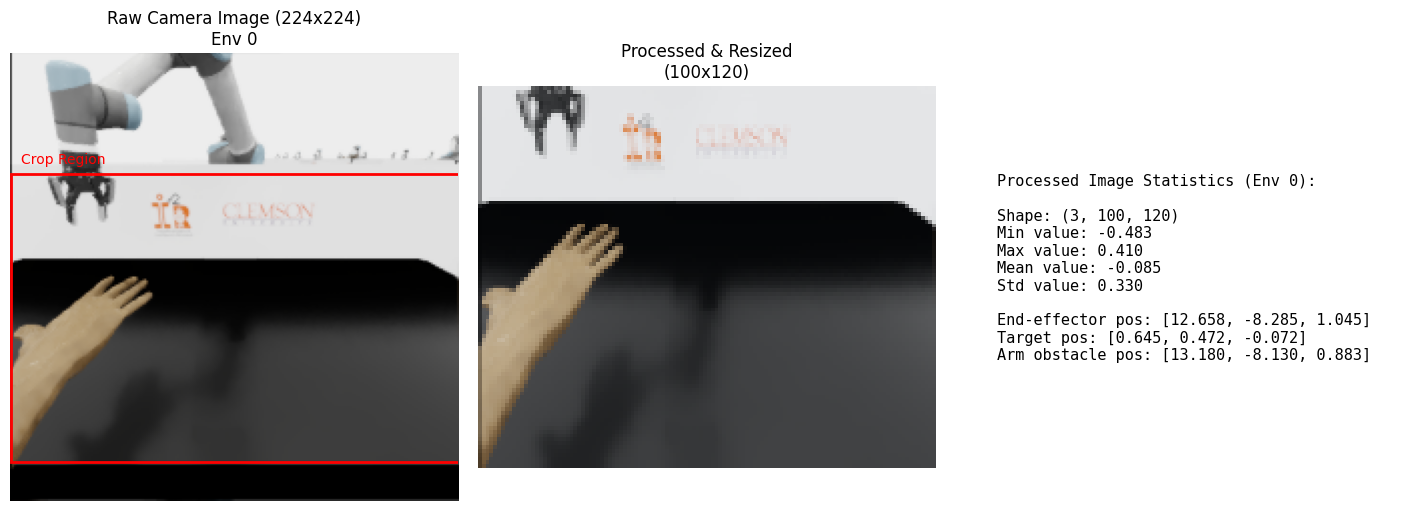
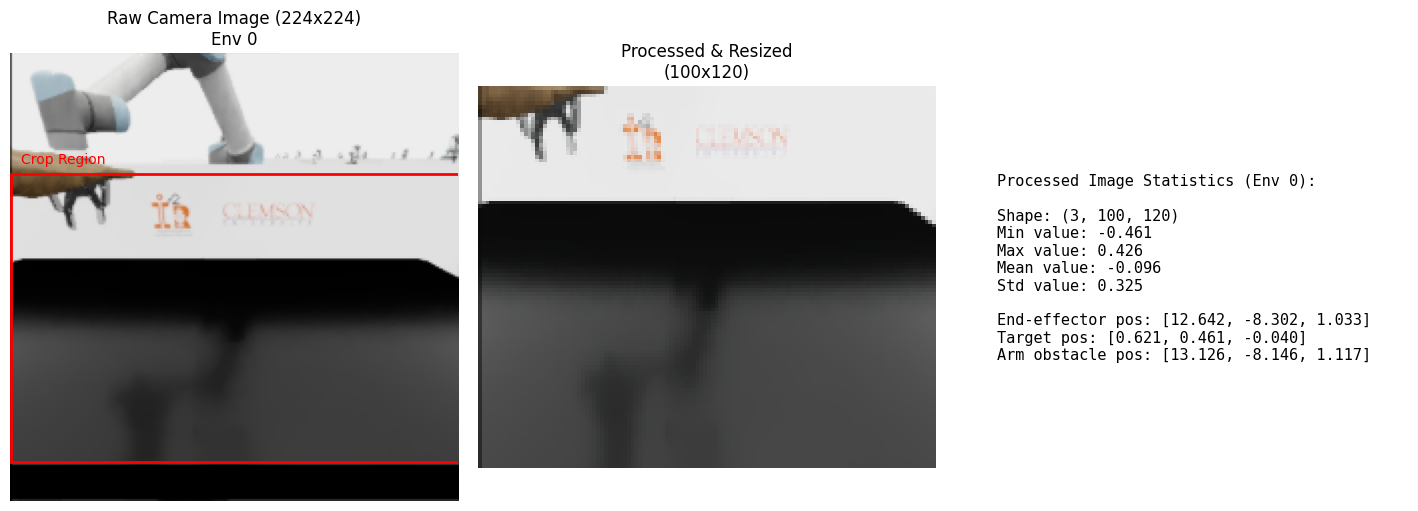
integrated with UR5 env without image processing. Need to add CNN layers to Actor and Critic

diff --git a/ppo/algorithms/ppo/algorithm/ppo_policy.py b/ppo/algorithms/ppo/algorithm/ppo_policy.py
@@ -26,6 +26,7 @@ class PPO_Policy:
         self.weight_decay = args.weight_decay
         self._use_policy_active_masks = args.use_policy_active_masks
         self.n_embd = args.n_embd
+        self.use_image = args.use_image
         
         if act_space.__class__.__name__ == 'Box':
             self.action_type = 'Continuous'
@@ -33,7 +34,10 @@ class PPO_Policy:
             self.action_type = 'Discrete'
 
         if args.env_name == 'IsaacLab':
-            self.obs_dim = get_shape_from_obs_space(obs_space)[-1]
+            self.obs_dim, self.obs_image_dim = get_shape_from_obs_space(obs_space)
+            self.obs_dim = self.obs_dim[-1]
+            if self.obs_image_dim is not None:
+                self.obs_image_dim = self.obs_image_dim[1:]
         else:
             self.obs_dim = get_shape_from_obs_space(obs_space)[0]
 
@@ -58,7 +62,8 @@ class PPO_Policy:
                                device=device,
                                action_type=self.action_type,
                                num_experts=args.num_experts,
-                               num_quants=num_quants)
+                               num_quants=num_quants,
+                               use_image=self.use_image)
 
         self.optimizer = torch.optim.Adam(self.transformer.parameters(),
                                           lr=self.lr, eps=self.opti_eps,
@@ -72,7 +77,7 @@ class PPO_Policy:
         """
         update_linear_schedule(self.optimizer, episode, episodes, self.lr)
 
-    def get_actions(self, obs, masks):
+    def get_actions(self, obs, masks, obs_image=None):
         """
         Compute actions and value function predictions for the given inputs.
         :param cent_obs (np.ndarray): centralized input to the critic.
@@ -92,6 +97,9 @@ class PPO_Policy:
         """
         obs = obs.reshape(-1, self.obs_dim)
 
+        if obs_image is not None:
+            obs_image = obs_image.reshape(-1, *self.obs_image_dim)
+
         actions, action_log_probs, values = self.transformer.get_actions(obs)
         actions = actions.view(-1, self.act_num)        
         action_log_probs = action_log_probs.view(-1, self.act_num)
@@ -99,7 +107,7 @@ class PPO_Policy:
     
         return values, actions, action_log_probs
 
-    def get_values(self, obs, masks):
+    def get_values(self, obs, masks, obs_image=None):
         """
         Get value function predictions.
         :param cent_obs (np.ndarray): centralized input to the critic.
@@ -110,12 +118,15 @@ class PPO_Policy:
         """
         obs = obs.reshape(-1, self.obs_dim)
 
+        if obs_image is not None:
+            obs_image = obs_image.reshape(-1, *self.obs_image_dim)
+
         values = self.transformer.get_values(obs)
         values = values.view(-1, self.num_quants)
 
         return values
 
-    def evaluate_actions(self, obs, actions, masks, active_masks=None):
+    def evaluate_actions(self, obs, actions, masks, active_masks=None, obs_image=None):
         """
         Get action logprobs / entropy and value function predictions for actor update.
         :param cent_obs (np.ndarray): centralized input to the critic.
@@ -135,6 +146,9 @@ class PPO_Policy:
         obs = obs.reshape(-1, self.obs_dim)
         actions = actions.reshape(-1, self.act_num)
 
+        if obs_image is not None:
+            obs_image = obs_image.reshape(-1, *self.obs_image_dim)
+
         action_log_probs, values, entropy, gate_entropy = self.transformer(obs, actions)
 
         action_log_probs = action_log_probs.view(-1, self.act_num)
@@ -151,7 +165,7 @@ class PPO_Policy:
         else:
             return values, action_log_probs, entropy, gate_entropy
 
-    def act(self, obs, masks):
+    def act(self, obs, masks, obs_image=None):
         """
         Compute actions using the given inputs.
         :param obs (np.ndarray): local agent inputs to the actor.
@@ -163,7 +177,7 @@ class PPO_Policy:
         """
 
         # this function is just a wrapper for compatibility
-        _, actions, _ = self.get_actions(obs, masks)
+        _, actions, _ = self.get_actions(obs, masks, obs_image)
 
         return actions
 

diff --git a/ppo/utils/shared_buffer.py b/ppo/utils/shared_buffer.py
@@ -41,16 +41,23 @@ class SharedReplayBuffer(object):
         self.num_quants = args.num_quants
         self.dgae_epsilon = args.dgae_epsilon
         self.use_value_entropy = args.use_value_entropy
+        self.use_image = args.use_image
         
-        obs_shape = get_shape_from_obs_space(obs_space)
+        obs_shape, obs_img_shape = get_shape_from_obs_space(obs_space)
 
         if type(obs_shape[-1]) == list:
             obs_shape = obs_shape[:1]
 
         if env_name == 'IsaacLab':
             obs_shape = (obs_shape[-1],)
+            if obs_img_shape is not None:
+                obs_img_shape = obs_img_shape[1:]
 
         self.obs = np.zeros((self.episode_length + 1, self.n_rollout_threads, 1, *obs_shape), dtype=np.float32)
+
+        if obs_img_shape is not None and self.use_image:
+            self.obs_img = np.zeros((self.episode_length + 1, self.n_rollout_threads, 1, *obs_img_shape), dtype=np.float32)
+        
         self.value_preds = np.zeros(
             (self.episode_length + 1, self.n_rollout_threads, 1, self.num_quants), dtype=np.float32)
         self.returns = np.zeros_like(self.value_preds)
@@ -85,7 +92,7 @@ class SharedReplayBuffer(object):
         if self.num_quants > 1:
             self.quantile_spacing = 1.0 / (self.num_quants - 1)
 
-    def insert(self, obs, actions, action_log_probs, value_preds, rewards, masks, bad_masks=None, active_masks=None):
+    def insert(self, obs, actions, action_log_probs, value_preds, rewards, masks, bad_masks=None, active_masks=None, obs_img=None):
         """
         Insert data into the buffer.
         :param share_obs: (argparse.Namespace) arguments containing relevant model, policy, and env information.
@@ -111,6 +118,8 @@ class SharedReplayBuffer(object):
             self.bad_masks[self.step + 1] = np.expand_dims(bad_masks, axis=1).copy()
         if active_masks is not None:
             self.active_masks[self.step + 1] = np.expand_dims(active_masks, axis=1).copy()
+        if obs_img is not None and self.use_image:
+            self.obs_img[self.step + 1] = np.expand_dims(obs_img, axis=1).copy()
         
         self.step = (self.step + 1) % self.episode_length
 
@@ -222,6 +231,10 @@ class SharedReplayBuffer(object):
         next_obs = self.obs[1:].reshape(-1, *self.obs.shape[2:])
         next_obs = next_obs[rows, cols]
 
+        if self.use_image:
+            obs_img = self.obs_img[:-1].reshape(-1, *self.obs_img.shape[2:])
+            obs_img = obs_img[rows, cols]
+
         actions = self.actions.reshape(-1, *self.actions.shape[2:])
         actions = actions[rows, cols]
 
@@ -243,6 +256,9 @@ class SharedReplayBuffer(object):
             obs_batch = obs[indices].reshape(-1, *self.obs.shape[2:])
             next_obs_batch = next_obs[indices].reshape(-1, *self.obs.shape[2:])
 
+            if self.use_image:
+                obs_img_batch = obs_img[indices].reshape(-1, *self.obs_img.shape[2:])
+
             actions_batch = actions[indices].reshape(-1, *actions.shape[2:])
 
             value_preds_batch = value_preds[indices].reshape(-1, *value_preds.shape[2:])
@@ -255,5 +271,9 @@ class SharedReplayBuffer(object):
             else:
                 adv_targ = advantages[indices].reshape(-1, *advantages.shape[2:])
 
-            yield obs_batch, actions_batch, value_preds_batch, return_batch, masks_batch,\
-                   active_masks_batch, old_action_log_probs_batch, adv_targ, next_obs_batch
+            if self.use_image:
+                yield obs_batch, actions_batch, value_preds_batch, return_batch, masks_batch,\
+                    active_masks_batch, old_action_log_probs_batch, adv_targ, next_obs_batch, obs_img_batch
+            else:
+                yield obs_batch, actions_batch, value_preds_batch, return_batch, masks_batch,\
+                    active_masks_batch, old_action_log_probs_batch, adv_targ, next_obs_batch

diff --git a/ppo/algorithms/ppo/ppo_trainer.py b/ppo/algorithms/ppo/ppo_trainer.py
@@ -40,6 +40,7 @@ class PPOTrainer:
         self._use_valuenorm = args.use_valuenorm
         self._use_value_active_masks = args.use_value_active_masks
         self._use_policy_active_masks = args.use_policy_active_masks
+        self.use_image = args.use_image
         
         if self._use_valuenorm:
             self.value_normalizer = ValueNorm(self.num_quants, device=self.device)
@@ -101,8 +102,14 @@ class PPOTrainer:
         :return actor_grad_norm: (torch.Tensor) gradient norm from actor update.
         :return imp_weights: (torch.Tensor) importance sampling weights.
         """
-        obs_batch, actions_batch, value_preds_batch, return_batch, masks_batch, active_masks_batch, \
-        old_action_log_probs_batch, adv_targ, next_obs_batch = sample
+        if self.use_image:
+            obs_batch, actions_batch, value_preds_batch, return_batch, masks_batch, active_masks_batch, \
+            old_action_log_probs_batch, adv_targ, next_obs_batch, obs_image_batch = sample
+        else:
+            obs_batch, actions_batch, value_preds_batch, return_batch, masks_batch, active_masks_batch, \
+            old_action_log_probs_batch, adv_targ, next_obs_batch = sample
+            
+            obs_image_batch = None
 
         old_action_log_probs_batch = check(old_action_log_probs_batch).to(**self.tpdv)
         adv_targ = check(adv_targ).to(**self.tpdv)
@@ -114,7 +121,8 @@ class PPOTrainer:
         values, action_log_probs, dist_entropy, gate_entropy  = self.policy.evaluate_actions(obs_batch, 
                                                                               actions_batch, 
                                                                               masks_batch, 
-                                                                              active_masks_batch)
+                                                                              active_masks_batch,
+                                                                              obs_image=obs_image_batch)
         # actor update
         imp_weights = torch.exp(action_log_probs - old_action_log_probs_batch)
 

diff --git a/ppo/runner/shared/base_runner.py b/ppo/runner/shared/base_runner.py
@@ -40,6 +40,7 @@ class Runner(object):
         self.use_wandb = self.all_args.use_wandb
         self.use_render = self.all_args.use_render
         self.n_embd = self.all_args.n_embd
+        self.use_image = self.all_args.use_image
 
         act_space = self.envs.action_space
 
@@ -49,7 +50,10 @@ class Runner(object):
             self.action_type = 'Discrete'
 
         if self.env_name == 'IsaacLab':
-            self.obs_dim = get_shape_from_obs_space(self.envs.observation_space)[-1]
+            self.obs_dim, self.obs_image_dim = get_shape_from_obs_space(self.envs.observation_space)
+            self.obs_dim = self.obs_dim[-1]
+            if self.obs_image_dim is not None:
+                self.obs_image_dim = self.obs_image_dim[1:]
         else:
             self.obs_dim = get_shape_from_obs_space(self.envs.observation_space)[0]
             
@@ -59,7 +63,7 @@ class Runner(object):
         #     self.act_dim = act_space.n
         # else:
         #     self.act_dim = act_space.shape[0]
-        
+
         # interval
         self.save_interval = self.all_args.save_interval
         self.use_eval = self.all_args.use_eval
@@ -124,7 +128,12 @@ class Runner(object):
     def compute(self):
         """Calculate returns for the collected data."""
         self.trainer.prep_rollout()
-        next_values = self.trainer.policy.get_values(np.concatenate(self.buffer.obs[-1]),
+        if self.obs_image_dim is not None and self.use_image:
+            next_values = self.trainer.policy.get_values(np.concatenate(self.buffer.obs[-1]),
+                                                     np.concatenate(self.buffer.masks[-1]),
+                                                     np.concatenate(self.buffer.obs_img[-1]))
+        else:
+            next_values = self.trainer.policy.get_values(np.concatenate(self.buffer.obs[-1]),
                                                      np.concatenate(self.buffer.masks[-1]))
         
         next_values = _t2n(next_values)

diff --git a/ppo/algorithms/ppo/algorithm/PPO.py b/ppo/algorithms/ppo/algorithm/PPO.py
@@ -153,7 +153,7 @@ class MoE_GaussianPolicies(nn.Module):
 
 class PPO(nn.Module):
 
-    def __init__(self, obs_dim, action_dim, n_embd, moe_policy, device=torch.device("cpu"), action_type='Discrete', num_experts=5, num_quants=1):
+    def __init__(self, obs_dim, action_dim, n_embd, moe_policy, device=torch.device("cpu"), action_type='Discrete', num_experts=5, num_quants=1, use_image=False):
         super(PPO, self).__init__()
 
         self.action_dim = action_dim
@@ -180,13 +180,16 @@ class PPO(nn.Module):
         if self.action_type != 'Discrete':
             self.actor.zero_std(self.device)
 
-    def forward(self, obs, action, gate_entropy=None):
+    def forward(self, obs, action, gate_entropy=None, obs_image=None):
         # state: (batch, n_agent, state_dim)
         # obs: (batch, n_agent, obs_dim)
         # action: (batch, n_agent, 1)
         # available_actions: (batch, n_agent, act_dim)
         obs = check(obs).to(**self.tpdv)
         action = check(action).to(**self.tpdv)
+
+        if obs_image is not None:
+            obs_image = check(obs).to(**self.tpdv)
 
         v_loc = self.critic(obs)
 
@@ -203,9 +206,12 @@ class PPO(nn.Module):
 
         return action_log, v_loc, entropy, gate_entropy
 
-    def get_actions(self, obs):
+    def get_actions(self, obs, obs_image=None):
         obs = check(obs).to(**self.tpdv)
         batch_size = np.shape(obs)[0]  
+
+        if obs_image is not None:
+            obs_image = check(obs).to(**self.tpdv)
 
         v_loc = self.critic(obs)
         
@@ -220,8 +226,12 @@ class PPO(nn.Module):
 
         return output_action, output_action_log, v_loc
 
-    def get_values(self, obs):
+    def get_values(self, obs, obs_image=None):
         obs = check(obs).to(**self.tpdv)
+
+        if obs_image is not None:
+            obs_image = check(obs).to(**self.tpdv)
+
         v_tot = self.critic(obs)
         return v_tot
 

diff --git a/ppo/runner/shared/isaac_ur5_runner.py b/ppo/runner/shared/isaac_ur5_runner.py
@@ -55,7 +55,7 @@ class IsaacRunner_UR5(Runner):
                 obs = obs["state"]
 
                 obs = _t2n(obs)
-                obs_img = _t2n(obs_img).reshape(-1, *self.obs_img_dim)
+                obs_img = _t2n(obs_img).reshape(-1, *self.obs_image_dim)
                 actions = _t2n(actions)
                 rewards = _t2n(rewards).reshape(-1, 1)
                 dones = _t2n(terminated).reshape(-1, 1)
@@ -130,14 +130,14 @@ class IsaacRunner_UR5(Runner):
         obs = self.envs.reset()
         self.buffer.obs[0] = np.expand_dims(_t2n(obs["state"]), axis=1).copy()
         
-        if self.obs_img_dim is not None and self.use_image:
+        if self.obs_image_dim is not None and self.use_image:
             self.buffer.obs_img[0] = np.expand_dims(_t2n(obs["image"].permute(0, 2, 3, 1)), axis=1).copy()
 
     @torch.no_grad()
     def collect(self, step):
         self.trainer.prep_rollout()
 
-        if self.obs_img_dim is not None and self.use_image:
+        if self.obs_image_dim is not None and self.use_image:
             value, actions, action_log_prob \
                 = self.trainer.policy.get_actions(np.concatenate(self.buffer.obs[step]),
                                                 np.concatenate(self.buffer.masks[step]),

diff --git a/ppo/utils/util.py b/ppo/utils/util.py
@@ -29,7 +29,7 @@ def huber_loss(e, d):
 def mse_loss(e):
     return e**2/2
 
-def get_shape_from_obs_space(obs_space):
+def get_shape_from_obs_space(obs_space, obs_image_shape=None):
     if obs_space.__class__.__name__ == 'Box':
         obs_shape = obs_space.shape
     elif obs_space.__class__.__name__ == 'list':
@@ -40,12 +40,11 @@ def get_shape_from_obs_space(obs_space):
             obs_shape = obs_space["policy"].shape
         else:
             # Fallback: Use the first key if "policy" is not found (or raise specific error)
-            key = list(obs_space.keys())[0]
-            print(f"Warning: 'policy' key not found in Dict obs_space. Using key: '{key}'")
-            obs_shape = obs_space[key].shape
+            obs_shape = obs_space["state"].shape
+            obs_image_shape = obs_space["image"].shape
     else:
         raise NotImplementedError
-    return obs_shape
+    return obs_shape, obs_image_shape
 
 def get_shape_from_act_space(act_space):
     if act_space.__class__.__name__ == 'Discrete':

diff --git a/ppo/config.py b/ppo/config.py
@@ -289,4 +289,6 @@ def get_config():
     parser.add_argument("--moe_policy", action='store_true', default=False)
     parser.add_argument("--num_experts", type=int, default=3)
 
+    parser.add_argument("--use_image", action='store_true', default=False)
+
     return parser
